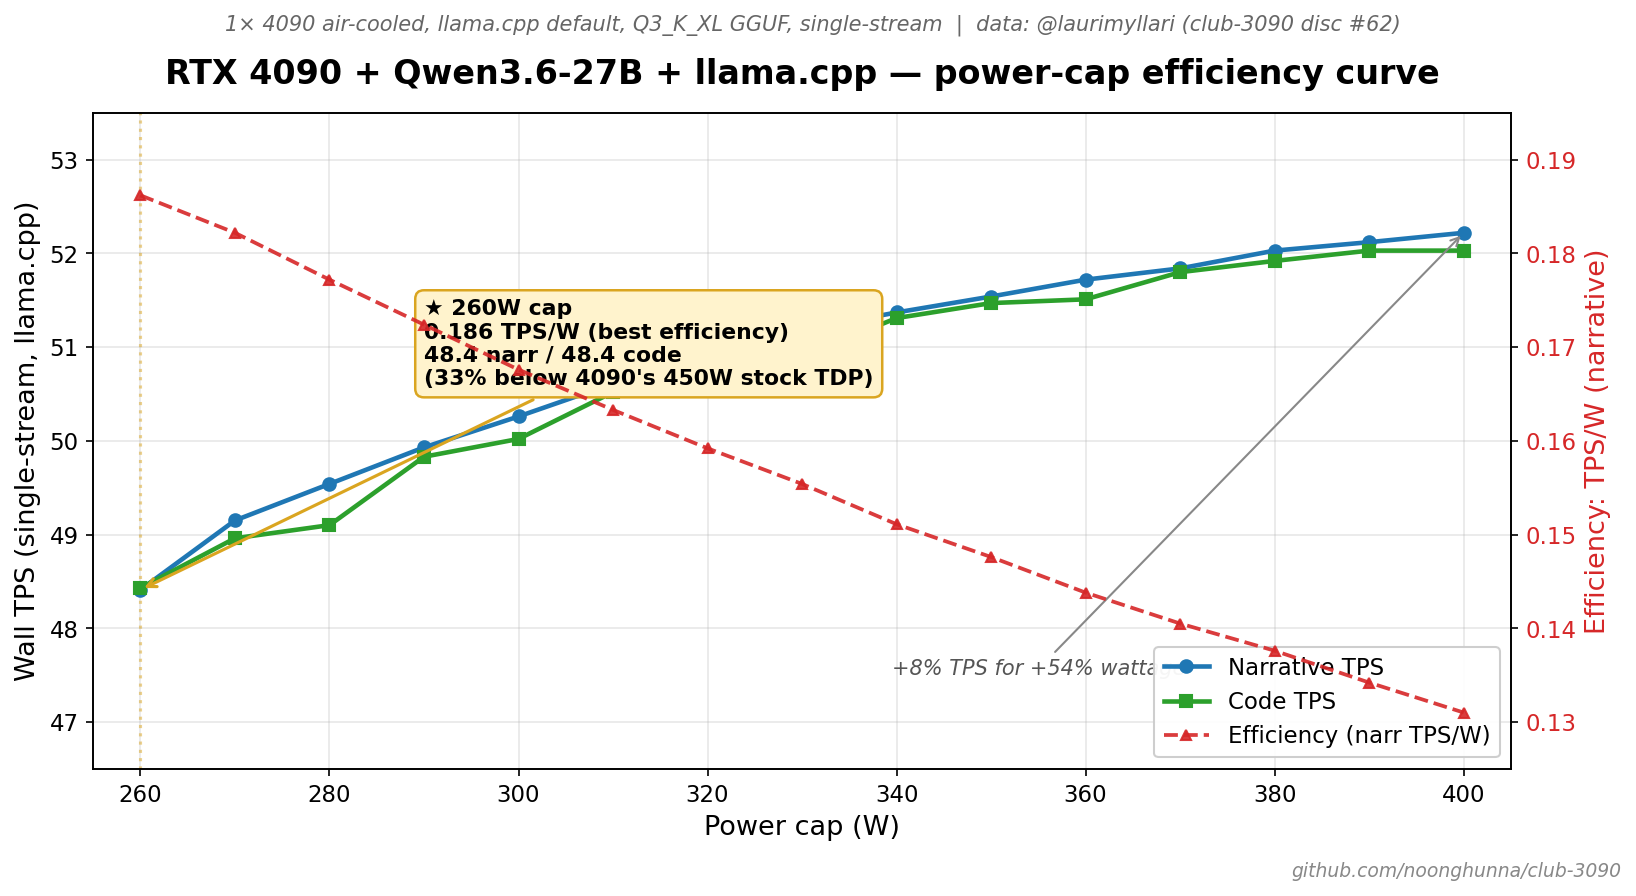
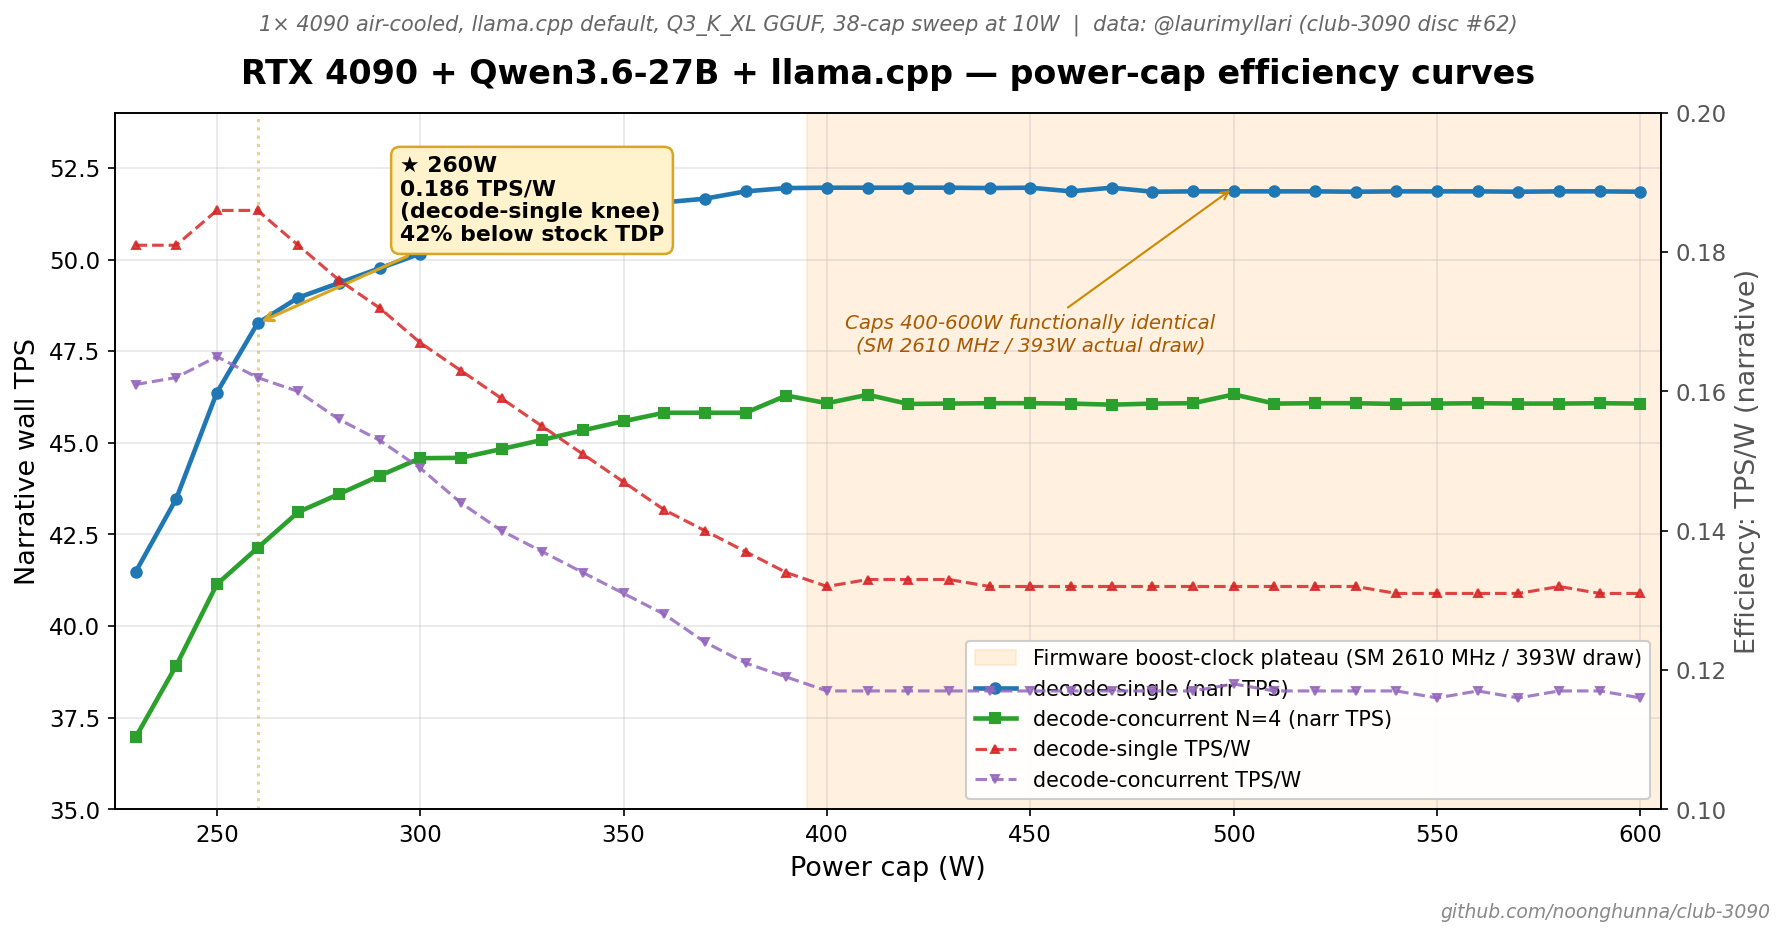
docs: refresh 4090 cross-rig knee with @user's richer 38-cap sweep
His earlier 15-cap sweep (260-400W, 16832066) is superseded by a
38-cap sweep at 10W resolution from 230-600W (16854218) — strictly
richer envelope. Two findings worth surfacing:

- Firmware boost-clock plateau at SM 2610 MHz: caps 400-600W produce
  identical 51.96 TPS at 393W actual draw. Auto-plateau detector in
  power-cap-sweep.sh caught both sub-plateaus cleanly (400-470W and
  480-600W).
- decode-concurrent N=4 plateau lower than decode-single (46 vs 52
  TPS) — on a 4090 + 27B Q3_K_XL the GPU is under-load at c=4 even
  at full TDP, so single-stream wins. Useful cross-rig signal.

HARDWARE.md table + chart caption updated; chart regenerated with
both load-mode curves overlaid + plateau zone shaded.

diff --git a/docs/img/power-cap-4090-qwen36.py b/docs/img/power-cap-4090-qwen36.py
@@ -1,36 +1,112 @@
 """Generate a tweet-ready chart from @laurimyllari's RTX 4090 power-cap sweep on llama.cpp.
 
-Source data: https://github.com/noonghunna/club-3090/discussions/62#discussioncomment-16832066
-Raw data file: power-bench-llama-260-400-10.txt (attached to disc #62)
-Setup: 1x RTX 4090 air-cooled, llama.cpp default, Qwen3.6-27B Q3_K_XL GGUF, AMD Ryzen 7 7800X3D.
+Source data: https://github.com/noonghunna/club-3090/discussions/62#discussioncomment-16854218
+Setup: 1× RTX 4090 air-cooled, llama.cpp default, Qwen3.6-27B-UD-Q3_K_XL GGUF, sweep on club-3090@aa99173.
+
+Two load modes are overlaid:
+  - decode-single     (10s × 2 timed streams per cap)
+  - decode-concurrent (concurrency=4, 4s/run × 3 runs × 2 batches per cap)
+
+The two curves together show: (a) where the efficiency knee is (250-260W on either mode),
+(b) the firmware boost-clock plateau locks at SM 2610 MHz / 393W draw from cap=400W onwards,
+and (c) on this 27B model concurrency=4 sits below single-stream — i.e. the 4090 is in
+under-load territory at c=4 on Q3_K_XL.
 """
 import matplotlib.pyplot as plt
 
-# 15-cap sweep at 10W resolution, 1 warmup + 1 run (laurimyllari noted CV was so low
-# he reduced runs after seeing consistency). Caps 260W to 400W.
-data = [
-    (260, 48.41, 48.43, 259.98, 0.1862),  # sweet spot
-    (270, 49.15, 48.96, 269.77, 0.1822),
-    (280, 49.54, 49.10, 279.54, 0.1772),
-    (290, 49.93, 49.83, 289.65, 0.1724),
-    (300, 50.26, 50.02, 299.82, 0.1676),
-    (310, 50.61, 50.52, 309.93, 0.1633),
-    (320, 50.88, 50.74, 319.56, 0.1592),
-    (330, 51.18, 50.90, 329.27, 0.1554),
-    (340, 51.37, 51.31, 340.01, 0.1511),
-    (350, 51.54, 51.47, 349.29, 0.1476),
-    (360, 51.72, 51.51, 359.69, 0.1438),
-    (370, 51.84, 51.80, 368.88, 0.1405),
-    (380, 52.03, 51.92, 378.18, 0.1376),
-    (390, 52.12, 52.03, 388.34, 0.1342),
-    (400, 52.22, 52.03, 398.51, 0.1310),
+# decode-single: 38-cap sweep, 230-600W. Columns: cap, narr_tps, code_tps, actual_W, narr_tps_per_W
+# Source: disc #62 16854218 (decode-single 14:42:23Z run)
+decode_single = [
+    (230, 41.47, 41.47, 229.72, 0.181),
+    (240, 43.47, 43.77, 240.21, 0.181),
+    (250, 46.37, 46.36, 249.84, 0.186),
+    (260, 48.26, 48.16, 259.90, 0.186),  # sweet spot (tied with 250W)
+    (270, 48.96, 48.96, 269.92, 0.181),
+    (280, 49.36, 49.36, 279.72, 0.176),
+    (290, 49.76, 49.86, 289.63, 0.172),
+    (300, 50.16, 50.16, 299.69, 0.167),
+    (310, 50.46, 50.56, 309.58, 0.163),
+    (320, 50.76, 50.76, 319.34, 0.159),
+    (330, 51.06, 51.06, 329.55, 0.155),
+    (340, 51.26, 51.26, 339.47, 0.151),
+    (350, 51.36, 51.36, 349.67, 0.147),
+    (360, 51.56, 51.56, 359.38, 0.143),
+    (370, 51.66, 51.66, 369.43, 0.140),
+    (380, 51.86, 51.86, 378.50, 0.137),
+    (390, 51.95, 51.96, 387.96, 0.134),
+    (400, 51.96, 51.96, 392.17, 0.132),  # firmware plateau begins
+    (410, 51.96, 51.96, 391.69, 0.133),
+    (420, 51.96, 51.96, 392.14, 0.133),
+    (430, 51.96, 51.96, 392.13, 0.133),
+    (440, 51.95, 51.96, 393.26, 0.132),
+    (450, 51.96, 51.96, 393.25, 0.132),
+    (460, 51.86, 51.86, 393.58, 0.132),
+    (470, 51.96, 51.96, 393.19, 0.132),
+    (480, 51.85, 51.96, 394.23, 0.132),
+    (490, 51.86, 51.96, 394.13, 0.132),
+    (500, 51.86, 51.96, 393.15, 0.132),
+    (510, 51.86, 51.86, 394.03, 0.132),
+    (520, 51.86, 51.96, 393.96, 0.132),
+    (530, 51.85, 51.96, 394.25, 0.132),
+    (540, 51.86, 51.96, 394.76, 0.131),
+    (550, 51.86, 51.96, 394.88, 0.131),
+    (560, 51.86, 51.96, 394.58, 0.131),
+    (570, 51.85, 51.96, 394.33, 0.131),
+    (580, 51.86, 51.96, 394.32, 0.132),
+    (590, 51.86, 51.96, 394.52, 0.131),
+    (600, 51.85, 51.96, 394.87, 0.131),
 ]
 
-caps = [d[0] for d in data]
-narr = [d[1] for d in data]
-code = [d[2] for d in data]
-draw = [d[3] for d in data]
-eff = [d[4] for d in data]
+# decode-concurrent N=4: 38-cap sweep, 230-600W.
+# Source: disc #62 16854218 (decode-concurrent 14:58:09Z run, concurrency=4 auto-calibrated)
+decode_concurrent = [
+    (230, 36.96, 36.46, 229.58, 0.161),
+    (240, 38.92, 38.69, 239.79, 0.162),
+    (250, 41.14, 40.66, 249.65, 0.165),  # under-load knee (tied with 260W)
+    (260, 42.13, 42.35, 259.50, 0.162),
+    (270, 43.11, 43.34, 269.13, 0.160),
+    (280, 43.60, 43.61, 278.92, 0.156),
+    (290, 44.10, 43.85, 289.16, 0.153),
+    (300, 44.58, 44.35, 299.48, 0.149),
+    (310, 44.59, 44.83, 309.32, 0.144),
+    (320, 44.83, 45.08, 319.19, 0.140),
+    (330, 45.08, 45.07, 328.98, 0.137),
+    (340, 45.34, 45.33, 339.07, 0.134),
+    (350, 45.59, 45.58, 349.02, 0.131),
+    (360, 45.82, 45.57, 358.57, 0.128),
+    (370, 45.82, 45.81, 368.40, 0.124),
+    (380, 45.82, 46.06, 378.29, 0.121),
+    (390, 46.29, 46.07, 387.93, 0.119),
+    (400, 46.08, 46.06, 393.64, 0.117),  # plateau begins
+    (410, 46.31, 46.06, 394.30, 0.117),
+    (420, 46.06, 46.07, 394.04, 0.117),
+    (430, 46.07, 46.07, 395.27, 0.117),
+    (440, 46.08, 46.07, 394.50, 0.117),
+    (450, 46.08, 46.07, 394.64, 0.117),
+    (460, 46.07, 46.04, 394.67, 0.117),
+    (470, 46.04, 46.08, 394.48, 0.117),
+    (480, 46.07, 46.08, 394.49, 0.117),
+    (490, 46.08, 46.07, 394.24, 0.117),
+    (500, 46.32, 46.07, 394.13, 0.118),
+    (510, 46.07, 46.08, 394.65, 0.117),
+    (520, 46.08, 46.07, 395.27, 0.117),
+    (530, 46.08, 46.06, 394.79, 0.117),
+    (540, 46.06, 46.07, 395.07, 0.117),
+    (550, 46.07, 46.07, 395.58, 0.116),
+    (560, 46.08, 46.07, 395.36, 0.117),
+    (570, 46.07, 46.07, 395.51, 0.116),
+    (580, 46.07, 46.07, 394.87, 0.117),
+    (590, 46.08, 46.07, 395.44, 0.117),
+    (600, 46.07, 46.06, 395.51, 0.116),
+]
+
+ds_caps = [d[0] for d in decode_single]
+ds_narr = [d[1] for d in decode_single]
+ds_eff = [d[4] for d in decode_single]
+
+dc_caps = [d[0] for d in decode_concurrent]
+dc_narr = [d[1] for d in decode_concurrent]
+dc_eff = [d[4] for d in decode_concurrent]
 
 plt.rcParams.update({
     "font.family": "sans-serif",
@@ -42,37 +118,44 @@ plt.rcParams.update({
     "axes.facecolor": "white",
 })
 
-fig, ax1 = plt.subplots(figsize=(11, 6.2), dpi=150)
+fig, ax1 = plt.subplots(figsize=(12, 6.5), dpi=150)
 
-# Left axis: TPS
-color_narr = "#1f77b4"
-color_code = "#2ca02c"
-ax1.plot(caps, narr, "o-", color=color_narr, linewidth=2.2, markersize=6,
-         label="Narrative TPS", zorder=3)
-ax1.plot(caps, code, "s-", color=color_code, linewidth=2.2, markersize=6,
-         label="Code TPS", zorder=3)
+# Firmware boost-clock plateau shading (caps 400-600W)
+ax1.axvspan(395, 605, color="#ffd6a5", alpha=0.35, zorder=0,
+            label="Firmware boost-clock plateau (SM 2610 MHz / 393W draw)")
+
+# Left axis: TPS (both modes)
+color_ds = "#1f77b4"
+color_dc = "#2ca02c"
+ax1.plot(ds_caps, ds_narr, "o-", color=color_ds, linewidth=2.2, markersize=5,
+         label="decode-single (narr TPS)", zorder=3)
+ax1.plot(dc_caps, dc_narr, "s-", color=color_dc, linewidth=2.2, markersize=5,
+         label="decode-concurrent N=4 (narr TPS)", zorder=3)
 ax1.set_xlabel("Power cap (W)", fontsize=13)
-ax1.set_ylabel("Wall TPS (single-stream, llama.cpp)", fontsize=13)
-ax1.set_xlim(255, 405)
-ax1.set_ylim(46.5, 53.5)
+ax1.set_ylabel("Narrative wall TPS", fontsize=13)
+ax1.set_xlim(225, 605)
+ax1.set_ylim(35, 54)
 ax1.grid(True, alpha=0.3, zorder=0)
 ax1.tick_params(axis="both", labelsize=11)
 
-# Right axis: TPS/W efficiency
+# Right axis: TPS/W efficiency (both modes)
 ax2 = ax1.twinx()
-color_eff = "#d62728"
-ax2.plot(caps, eff, "^--", color=color_eff, linewidth=1.8, markersize=5,
-         alpha=0.9, label="Efficiency (narr TPS/W)", zorder=2)
-ax2.set_ylabel("Efficiency: TPS/W (narrative)", color=color_eff, fontsize=13)
-ax2.tick_params(axis="y", labelcolor=color_eff, labelsize=11)
-ax2.set_ylim(0.125, 0.195)
+color_eff_ds = "#d62728"
+color_eff_dc = "#9467bd"
+ax2.plot(ds_caps, ds_eff, "^--", color=color_eff_ds, linewidth=1.5, markersize=4,
+         alpha=0.85, label="decode-single TPS/W", zorder=2)
+ax2.plot(dc_caps, dc_eff, "v--", color=color_eff_dc, linewidth=1.5, markersize=4,
+         alpha=0.85, label="decode-concurrent TPS/W", zorder=2)
+ax2.set_ylabel("Efficiency: TPS/W (narrative)", fontsize=13, color="#555")
+ax2.tick_params(axis="y", labelcolor="#555", labelsize=11)
+ax2.set_ylim(0.10, 0.20)
 
-# Sweet spot annotation: 260W
+# Sweet spot annotation: 260W on decode-single
 ax1.axvline(260, color="goldenrod", linestyle=":", alpha=0.5, linewidth=1.5)
 ax1.annotate(
-    "★ 260W cap\n0.186 TPS/W (best efficiency)\n48.4 narr / 48.4 code\n(33% below 4090's 450W stock TDP)",
-    xy=(260, 48.41),
-    xytext=(290, 50.6),
+    "★ 260W\n0.186 TPS/W\n(decode-single knee)\n42% below stock TDP",
+    xy=(260, 48.26),
+    xytext=(295, 50.5),
     fontsize=10.5,
     fontweight="bold",
     bbox=dict(boxstyle="round,pad=0.4", facecolor="#fff3cd", edgecolor="goldenrod", linewidth=1.2),
@@ -80,28 +163,28 @@ ax1.annotate(
     zorder=4,
 )
 
-# 400W cap annotation showing the modest TPS gain
+# Plateau annotation
 ax1.annotate(
-    "+8% TPS for +54% wattage",
-    xy=(400, 52.22),
-    xytext=(355, 47.5),
-    fontsize=10,
+    "Caps 400-600W functionally identical\n(SM 2610 MHz / 393W actual draw)",
+    xy=(500, 51.96),
+    xytext=(450, 47.5),
+    fontsize=9.5,
     ha="center",
-    color="#555",
+    color="#a85a00",
     fontstyle="italic",
-    arrowprops=dict(arrowstyle="->", color="#888", lw=1),
+    arrowprops=dict(arrowstyle="->", color="#cc8800", lw=1),
 )
 
 # Title
 ax1.set_title(
-    "RTX 4090 + Qwen3.6-27B + llama.cpp — power-cap efficiency curve",
+    "RTX 4090 + Qwen3.6-27B + llama.cpp — power-cap efficiency curves",
     pad=14,
 )
 
 # Subtitle
 fig.text(
     0.5, 0.92,
-    "1× 4090 air-cooled, llama.cpp default, Q3_K_XL GGUF, single-stream  |  data: @laurimyllari (club-3090 disc #62)",
+    "1× 4090 air-cooled, llama.cpp default, Q3_K_XL GGUF, 38-cap sweep at 10W  |  data: @laurimyllari (club-3090 disc #62)",
     ha="center", fontsize=10, color="#666",
     style="italic",
 )
@@ -110,8 +193,8 @@ fig.text(
 lines1, labels1 = ax1.get_legend_handles_labels()
 lines2, labels2 = ax2.get_legend_handles_labels()
 ax1.legend(lines1 + lines2, labels1 + labels2,
-           loc="lower right", fontsize=11, framealpha=0.95,
-           edgecolor="#ccc")
+           loc="lower right", fontsize=10, framealpha=0.95,
+           edgecolor="#ccc", ncol=1)
 
 # Footer
 fig.text(
@@ -122,6 +205,6 @@ fig.text(
 
 plt.tight_layout(rect=(0, 0.02, 1, 0.92))
 
-out = "/tmp/power_cap_sweep_4090_qwen36.png"
+out = "docs/img/power-cap-4090-qwen36.png"
 plt.savefig(out, dpi=150, bbox_inches="tight", facecolor="white")
 print(f"Saved: {out}")

diff --git a/docs/HARDWARE.md b/docs/HARDWARE.md
@@ -155,10 +155,12 @@ How `decode-single` is timed (the new default since 2026-05-07):
 | 3090 | air | llama.cpp default | Qwen3.6 35B-A3B (MoE) Q4_K_XL | 370W (stock) | 136.84 | 136.65 | 0.386 | same — SM climbs smoothly 1875→1905 across 340-370W (NO plateau, unlike dense) |
 | 3090 | air | llama.cpp `prefill-heavy` (35B-A3B MoE) | **prefill-heavy** | **250W** ⭐ | 2461.22 | (n/a) | **9.865** | @noonghunna (MoE prefill knee at SAME 250W as dense — workload-class converges, SM 1380 MHz) |
 | 3090 | air | llama.cpp `prefill-heavy` (35B-A3B MoE) | **prefill-heavy** | 370W (stock) | 2794.36 | (n/a) | 8.363 | same — SM locks at 1680-1710 MHz across 340-370W (boost-clock plateau detected) |
-| 4090 | air | llama.cpp default | Qwen3.6 27B Q3_K_XL | **260W** ⭐ | 48.41 | 48.43 | 0.186 | [@laurimyllari #62](https://github.com/noonghunna/club-3090/discussions/62#discussioncomment-16832066) |
-| 4090 | air | llama.cpp default | Qwen3.6 27B Q3_K_XL | 280W | 49.54 | 49.10 | 0.177 | [@laurimyllari #62](https://github.com/noonghunna/club-3090/discussions/62#discussioncomment-16832066) |
-| 4090 | air | llama.cpp default | Qwen3.6 27B Q3_K_XL | 300W | 50.26 | 50.02 | 0.168 | [@laurimyllari #62](https://github.com/noonghunna/club-3090/discussions/62#discussioncomment-16832066) |
-| 4090 | air | llama.cpp default | Qwen3.6 27B Q3_K_XL | 450W (stock) | 52.28 | 52.22 | 0.116 | [@laurimyllari #62](https://github.com/noonghunna/club-3090/discussions/62#discussioncomment-16832066) |
+| 4090 | air | llama.cpp `decode-single` | Qwen3.6 27B Q3_K_XL | **260W** ⭐ | 48.26 | 48.16 | 0.186 | [@laurimyllari #62 (38-cap sweep)](https://github.com/noonghunna/club-3090/discussions/62#discussioncomment-16854218) |
+| 4090 | air | llama.cpp `decode-single` | Qwen3.6 27B Q3_K_XL | 280W | 49.36 | 49.36 | 0.176 | same |
+| 4090 | air | llama.cpp `decode-single` | Qwen3.6 27B Q3_K_XL | 300W | 50.16 | 50.16 | 0.167 | same |
+| 4090 | air | llama.cpp `decode-single` | Qwen3.6 27B Q3_K_XL | 400W (firmware plateau) | 51.96 | 51.96 | 0.132 | same — SM locks 2610 MHz / 392W actual; caps 400-600W functionally identical |
+| 4090 | air | llama.cpp `decode-single` | Qwen3.6 27B Q3_K_XL | 450W (stock) | 51.96 | 51.96 | 0.132 | same — at firmware-plateau, draws 393W not 450W |
+| 4090 | air | llama.cpp `decode-concurrent` N=4 | Qwen3.6 27B Q3_K_XL | **250W** ⭐ | 41.14 | 40.66 | 0.165 | [@laurimyllari #62 (under-load, c=4)](https://github.com/noonghunna/club-3090/discussions/62#discussioncomment-16854218) — concurrency=4 lower TPS than single-stream on this model, plateau 46 TPS at 400W |
 | 5090 | air | vLLM default | Qwen3.6 27B AutoRound | **400W** ⭐ | 119.98 | 159.23 | 0.300 | [@apnar #62](https://github.com/noonghunna/club-3090/discussions/62#discussioncomment-16832685) |
 | 5090 | air | vLLM default | Qwen3.6 27B AutoRound | 575W (near-stock) | 119.38 | 159.94 | 0.277 | [@apnar #62](https://github.com/noonghunna/club-3090/discussions/62#discussioncomment-16832685) |
 | 5090 | air | vLLM `gemma-mtp` (TP=1) | Gemma 4 31B + MTP | **400W** ⭐ | 571.45 | 700.92 | **1.429** | [@apnar #86](https://github.com/noonghunna/club-3090/discussions/86#discussioncomment-16840610) |
@@ -192,7 +194,7 @@ The cross-workload pattern: **both workload classes have efficiency knee at 400W
 
 ![4090 + Qwen3.6-27B + llama.cpp power-cap efficiency curve (laurimyllari)](img/power-cap-4090-qwen36.png)
 
-*4090 air-cooled + Qwen3.6-27B Q3_K_XL + llama.cpp default, 15-cap sweep at 10W resolution (260-400W). Yellow callout: 260W sweet spot (0.186 TPS/W) at 33% below the 4090's 450W stock TDP. **+8% TPS for +54% wattage** going from 260W to 400W — the 4090 is heavily workload-saturated on this single-stream decode path. Source data: [disc #62](https://github.com/noonghunna/club-3090/discussions/62#discussioncomment-16832066) (@laurimyllari). Source script: [`img/power-cap-4090-qwen36.py`](img/power-cap-4090-qwen36.py).*
+*4090 air-cooled + Qwen3.6-27B Q3_K_XL + llama.cpp default, 38-cap sweep at 10W resolution (230-600W) covering both `decode-single` and `decode-concurrent` (N=4) load modes. Yellow callout: 260W sweet spot (0.186 TPS/W) at 42% below the 4090's 450W stock TDP. Orange-shaded: caps **400-600W are functionally identical** — firmware boost-clock locks at SM 2610 MHz / 393W actual draw / 51.96 TPS regardless of cap. Decode-concurrent N=4 sits below decode-single across the full envelope on this 27B model: at concurrency=4 the 4090 is in *under-load* territory (model + KV fits comfortably, batching window costs more than it saves vs single-stream on Q3_K_XL). Source data: [disc #62](https://github.com/noonghunna/club-3090/discussions/62#discussioncomment-16854218) (@laurimyllari, sweep on `aa99173`). Source script: [`img/power-cap-4090-qwen36.py`](img/power-cap-4090-qwen36.py).*
 
 ![3090 + Qwen3.6-27B + llama.cpp power-cap efficiency curve (noonghunna)](img/power-cap-3090-qwen36.png)
 